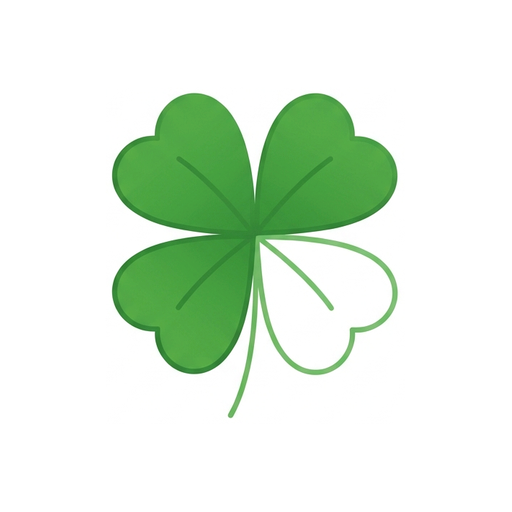
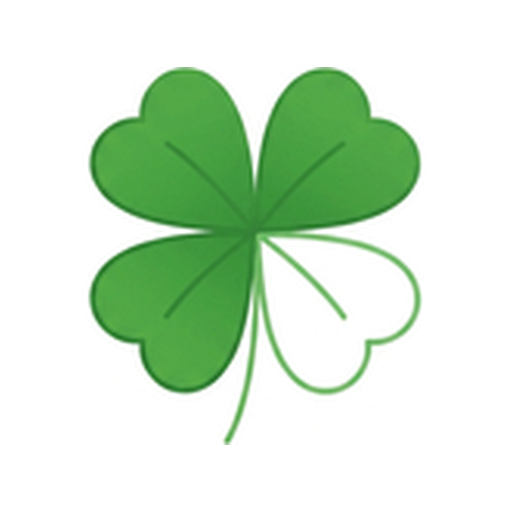
Add files via upload

diff --git a/src/client/style.css b/src/client/style.css
@@ -49,7 +49,7 @@ h1, h2, h3 { font-family: var(--serif); font-weight: 700; line-height: 1.3; marg
 }
 .brand { display: flex; align-items: baseline; gap: 8px; text-decoration: none; color: var(--hanji); min-width: 0; flex: 1 1 auto; overflow: hidden; }
 .wordmark { font-family: 'Noto Serif KR', 'Noto Serif', var(--serif); font-weight: 700; font-size: 19px; color: var(--hanji); letter-spacing: .02em; white-space: nowrap; }
-.wordmark::before { content: ''; display: inline-block; width: 9px; height: 9px; margin-right: 7px; background: var(--brass); border-radius: 2px; vertical-align: .08em; }
+.wordmark::before { content: ''; display: inline-block; width: 1.05em; height: 1.05em; margin-right: .3em; background: url('/clover.png') center / contain no-repeat; vertical-align: -.16em; }
 .top .wordmark { flex: none; font-size: clamp(16px, 4.6vw, 19px); }
 .brand .sub { font-family: var(--serif); font-size: 13px; color: var(--muted); white-space: nowrap; overflow: hidden; text-overflow: ellipsis; min-width: 0; }
 .top-actions { flex: none; }
